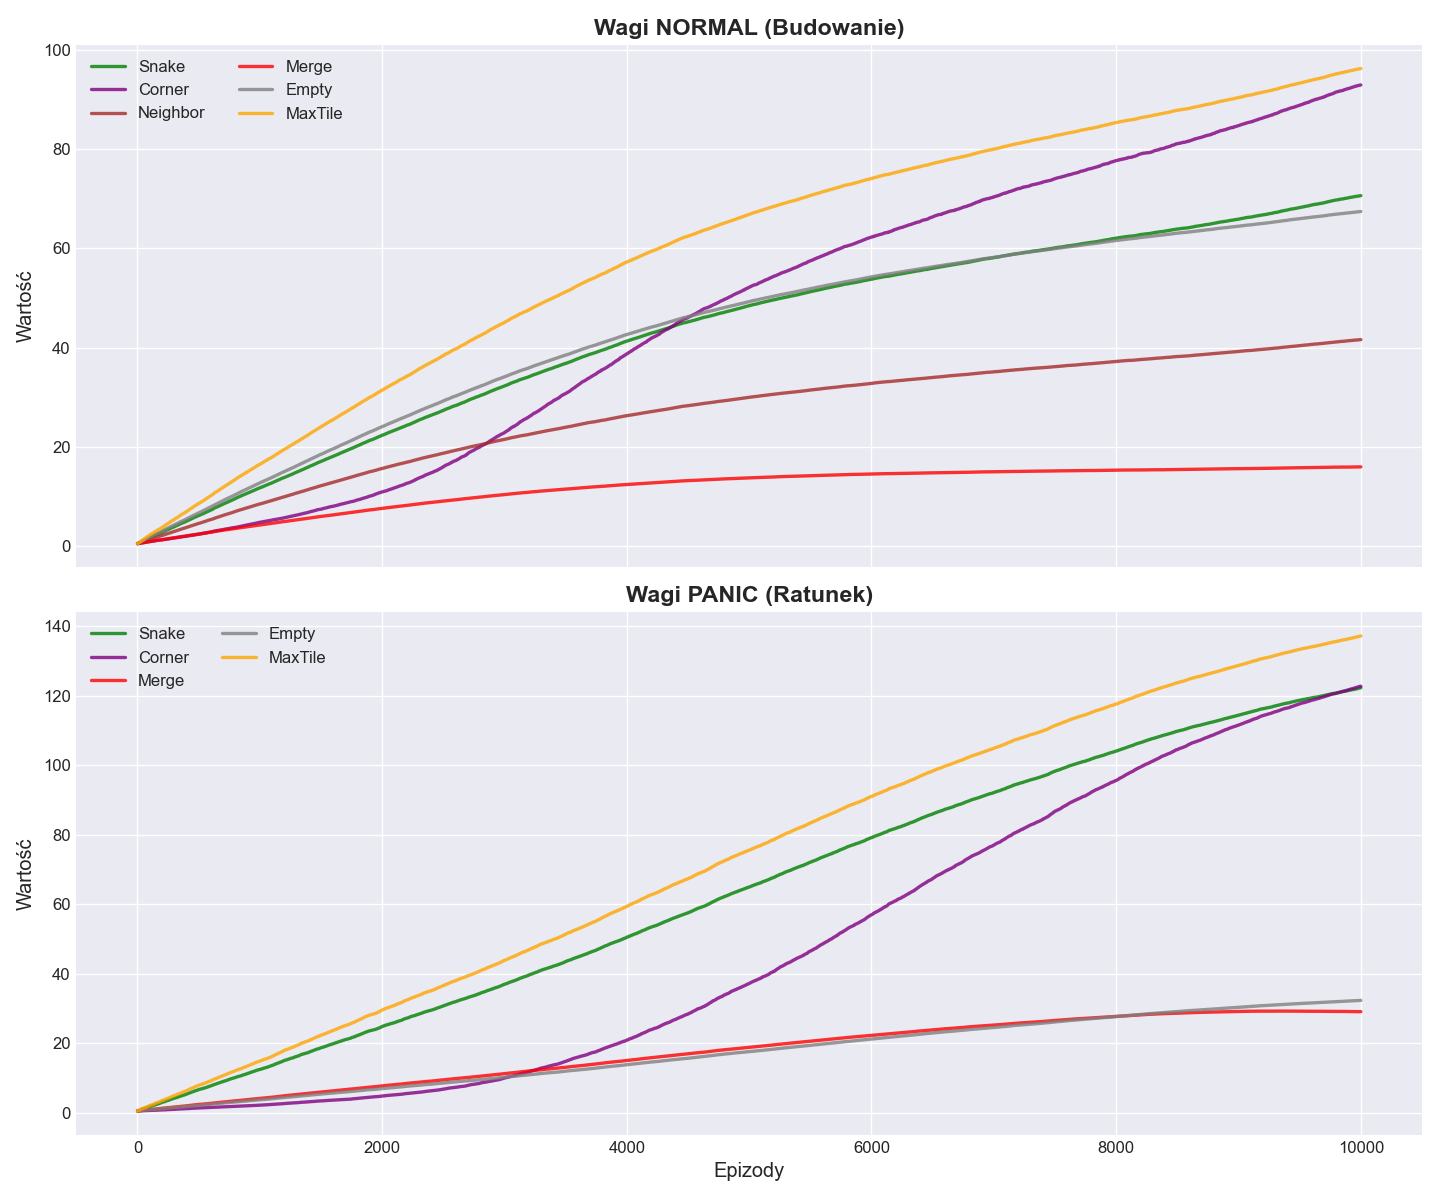
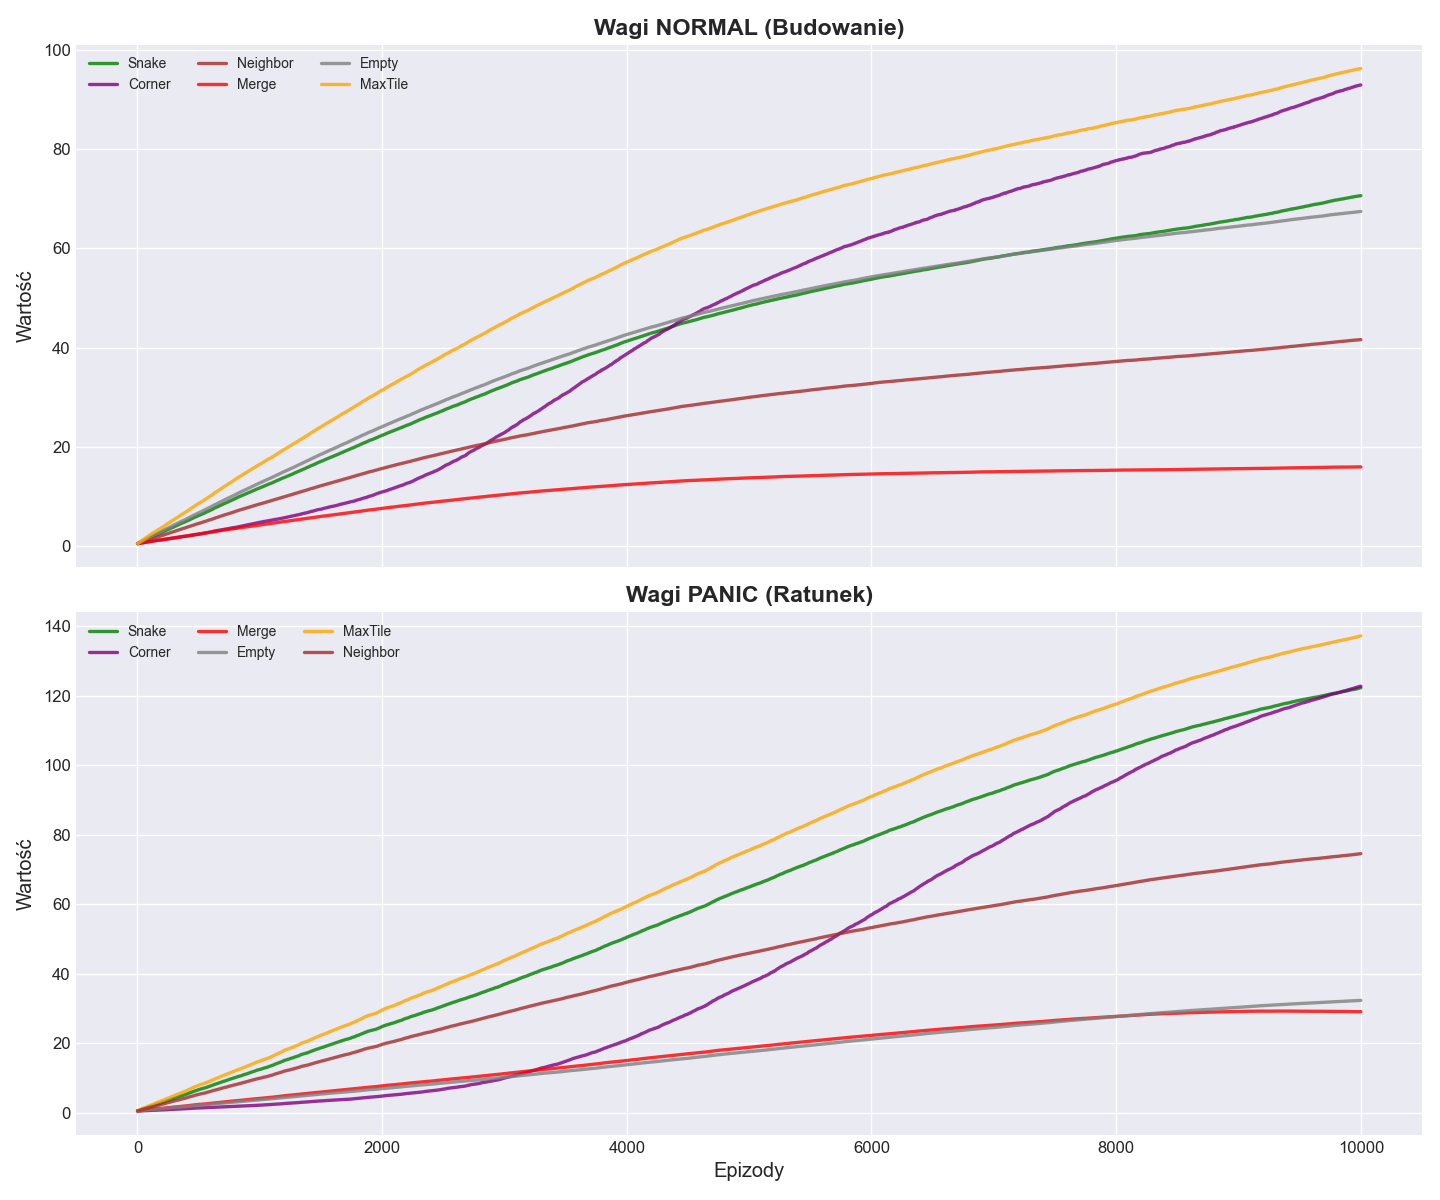
aeffaefa

diff --git a/plot_charts.py b/plot_charts.py
@@ -3,25 +3,38 @@ import matplotlib.pyplot as plt
 import os
 
 CSV_FILE = "training_history.csv"
-WINDOW_SIZE = 50 
-DPI = 120         
+WINDOW_SIZE = 50
+DPI = 120
 
 def setup_style():
-    """Ustawia styl wykresów matplotlib (seaborn lub ggplot)."""
+    """Ustawia styl wykresów matplotlib."""
     try:
         plt.style.use('seaborn-v0_8-darkgrid')
     except:
         plt.style.use('ggplot')
 
+def clean_data(df):
+    """
+    Czyści nazwy kolumn ze spacji i konwertuje dane na liczby.
+    """
+    # 1. Usuń spacje z nazw kolumn (np. " Moves" -> "Moves")
+    df.columns = df.columns.str.strip()
+
+    # 2. Upewnij się, że kluczowe kolumny są liczbami
+    numeric_cols = ['Score', 'MaxTile', 'Moves', 'Episode']
+    for col in numeric_cols:
+        if col in df.columns:
+            df[col] = pd.to_numeric(df[col], errors='coerce')
+
+    return df
+
 def plot_just_scores(df):
-    """
-    Rysuje wykres średniego wyniku (Rolling Mean).
-    
-    Args:
-        df (pd.DataFrame): DataFrame z danymi treningowymi.
-    """
     print("Generowanie: Wykres Wyników...")
-    rolling_score = df['Score'].rolling(window=WINDOW_SIZE).mean()
+    if 'Score' not in df.columns:
+        print("-> Brak kolumny Score.")
+        return
+
+    rolling_score = df['Score'].rolling(window=WINDOW_SIZE, min_periods=1).mean()
 
     fig, ax = plt.subplots(figsize=(10, 6))
     ax.set_title(f'Historia Średniego Wyniku (Okno: {WINDOW_SIZE})', fontsize=14, fontweight='bold')
@@ -37,15 +50,10 @@ def plot_just_scores(df):
     plt.close()
 
 def plot_weights(df):
-    """
-    Rysuje zmiany wartości wag w czasie dla obu trybów (Normal i Panic).
-    
-    Args:
-        df (pd.DataFrame): DataFrame z danymi treningowymi.
-    """
     print("Generowanie: Wykres Wag...")
     fig, (ax1, ax2) = plt.subplots(2, 1, figsize=(12, 10), sharex=True)
 
+    # --- NORMAL ---
     ax1.set_title('Wagi NORMAL (Budowanie)', fontsize=14, fontweight='bold')
     ax1.set_ylabel('Wartość', fontsize=12)
 
@@ -59,24 +67,26 @@ def plot_weights(df):
         if col in df.columns:
             ax1.plot(df['Episode'], df[col], color=color, label=label, linewidth=2, alpha=0.8)
 
-    ax1.legend(loc='upper left', ncol=2)
+    ax1.legend(loc='upper left', ncol=3, fontsize='small')
     ax1.grid(True)
 
+    # --- PANIC ---
     ax2.set_title('Wagi PANIC (Ratunek)', fontsize=14, fontweight='bold')
     ax2.set_ylabel('Wartość', fontsize=12)
     ax2.set_xlabel('Epizody', fontsize=12)
 
+    # POPRAWKA: Dodano brakujący P_Neigh, który jest w Twoich danych
     weights_panic = {
         'P_Snake': ('green', 'Snake'), 'P_Corner': ('purple', 'Corner'),
         'P_Merge': ('red', 'Merge'), 'P_Empty': ('gray', 'Empty'),
-        'P_Max': ('orange', 'MaxTile')
+        'P_Max': ('orange', 'MaxTile'), 'P_Neigh': ('brown', 'Neighbor')
     }
 
     for col, (color, label) in weights_panic.items():
         if col in df.columns:
             ax2.plot(df['Episode'], df[col], color=color, label=label, linewidth=2, alpha=0.8)
 
-    ax2.legend(loc='upper left', ncol=2)
+    ax2.legend(loc='upper left', ncol=3, fontsize='small')
     ax2.grid(True)
 
     plt.tight_layout()
@@ -84,19 +94,13 @@ def plot_weights(df):
     plt.close()
 
 def plot_tiles_split(df):
-    """
-    Rysuje wykresy dotyczące maksymalnego klocka.
-    1. Rekordowy max (peak).
-    2. Średni max (stabilność).
-
-    Args:
-        df (pd.DataFrame): DataFrame z danymi treningowymi.
-    """
     print("Generowanie: Wykres Klocków (2 ploty)...")
+    if 'MaxTile' not in df.columns:
+        print("-> Brak kolumny MaxTile.")
+        return
 
-   
-    rolling_peak_max = df['MaxTile'].rolling(window=WINDOW_SIZE).max()
-    rolling_avg_max = df['MaxTile'].rolling(window=WINDOW_SIZE).mean()
+    rolling_peak_max = df['MaxTile'].rolling(window=WINDOW_SIZE, min_periods=1).max()
+    rolling_avg_max = df['MaxTile'].rolling(window=WINDOW_SIZE, min_periods=1).mean()
 
     fig, (ax1, ax2) = plt.subplots(2, 1, figsize=(10, 10), sharex=True)
 
@@ -119,24 +123,29 @@ def plot_tiles_split(df):
 
 def plot_moves_only(df):
     """
-    Rysuje średnią liczbę ruchów na grę (wskaźnik przetrwania).
-
-    Args:
-        df (pd.DataFrame): DataFrame z danymi treningowymi.
+    Rysuje średnią liczbę ruchów na grę.
     """
     print("Generowanie: Wykres Ruchów...")
+
+    # Sprawdzenie po wyczyszczeniu nazw kolumn
     if 'Moves' not in df.columns:
-        print("Brak danych o ruchach.")
+        print(f"BŁĄD: Brak kolumny 'Moves'. Dostępne kolumny: {list(df.columns)}")
         return
 
-    rolling_moves = df['Moves'].rolling(window=WINDOW_SIZE).mean()
+    # Użycie min_periods=1 sprawia, że wykres rysuje się od samego początku,
+    # zamiast czekać na wypełnienie okna 50 epizodów.
+    rolling_moves = df['Moves'].rolling(window=WINDOW_SIZE, min_periods=1).mean()
 
     fig, ax = plt.subplots(figsize=(10, 6))
-    ax.set_title(f'Średnia Liczba Ruchów (Przetrwanie)', fontsize=14, fontweight='bold')
+    ax.set_title(f'Średnia Liczba Ruchów (Przetrwanie - średnia z {WINDOW_SIZE})', fontsize=14, fontweight='bold')
     ax.set_xlabel('Epizody', fontsize=12)
     ax.set_ylabel('Liczba Ruchów', fontsize=12)
 
     ax.plot(df['Episode'], rolling_moves, color='purple', linewidth=2, label='Avg Moves')
+
+    # Dodanie surowych danych w tle (jasne), żeby zobaczyć wariancję
+    ax.plot(df['Episode'], df['Moves'], color='purple', linewidth=1, alpha=0.15, label='Raw Moves')
+
     ax.legend(loc='upper left')
     ax.grid(True, linestyle='--', alpha=0.7)
 
@@ -145,32 +154,34 @@ def plot_moves_only(df):
     plt.close()
 
 def generate_charts():
-    """Główna funkcja sterująca generowaniem wszystkich wykresów."""
     if not os.path.exists(CSV_FILE):
         print(f"Brak pliku {CSV_FILE}")
         return
 
     try:
         df = pd.read_csv(CSV_FILE)
-        if df.empty: return
-    except:
+        if df.empty:
+            print("Plik CSV jest pusty.")
+            return
+
+        # Kluczowa poprawka: czyszczenie danych
+        df = clean_data(df)
+
+    except Exception as e:
+        print(f"Błąd odczytu CSV: {e}")
         return
 
     setup_style()
 
-  
-    plot_just_scores(df)   
-    plot_weights(df)      
-    plot_tiles_split(df)  
-    plot_moves_only(df)   
+    plot_just_scores(df)
+    plot_weights(df)
+    plot_tiles_split(df)
+    plot_moves_only(df)
 
     print("--> Zakończono generowanie wszystkich 4 wykresów.")
 
     try:
-        if os.name == 'nt':
-            os.startfile("wykres_wyniki.png")
-            os.startfile("wykres_wagi.png")
-            os.startfile("wykres_klocki.png")
+        if os.name == 'nt': # Tylko dla Windows
             os.startfile("wykres_ruchy.png")
     except:
         pass
